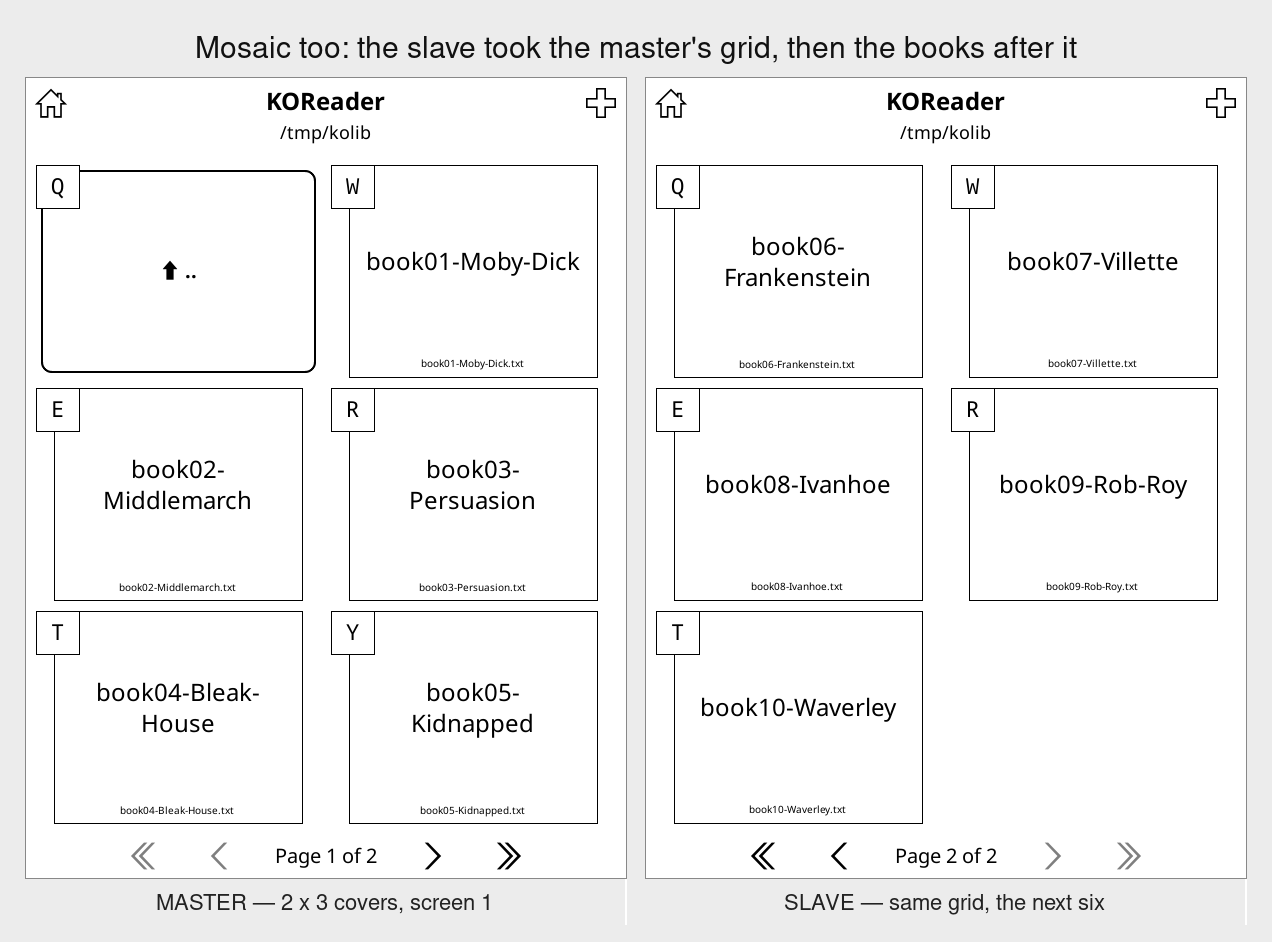
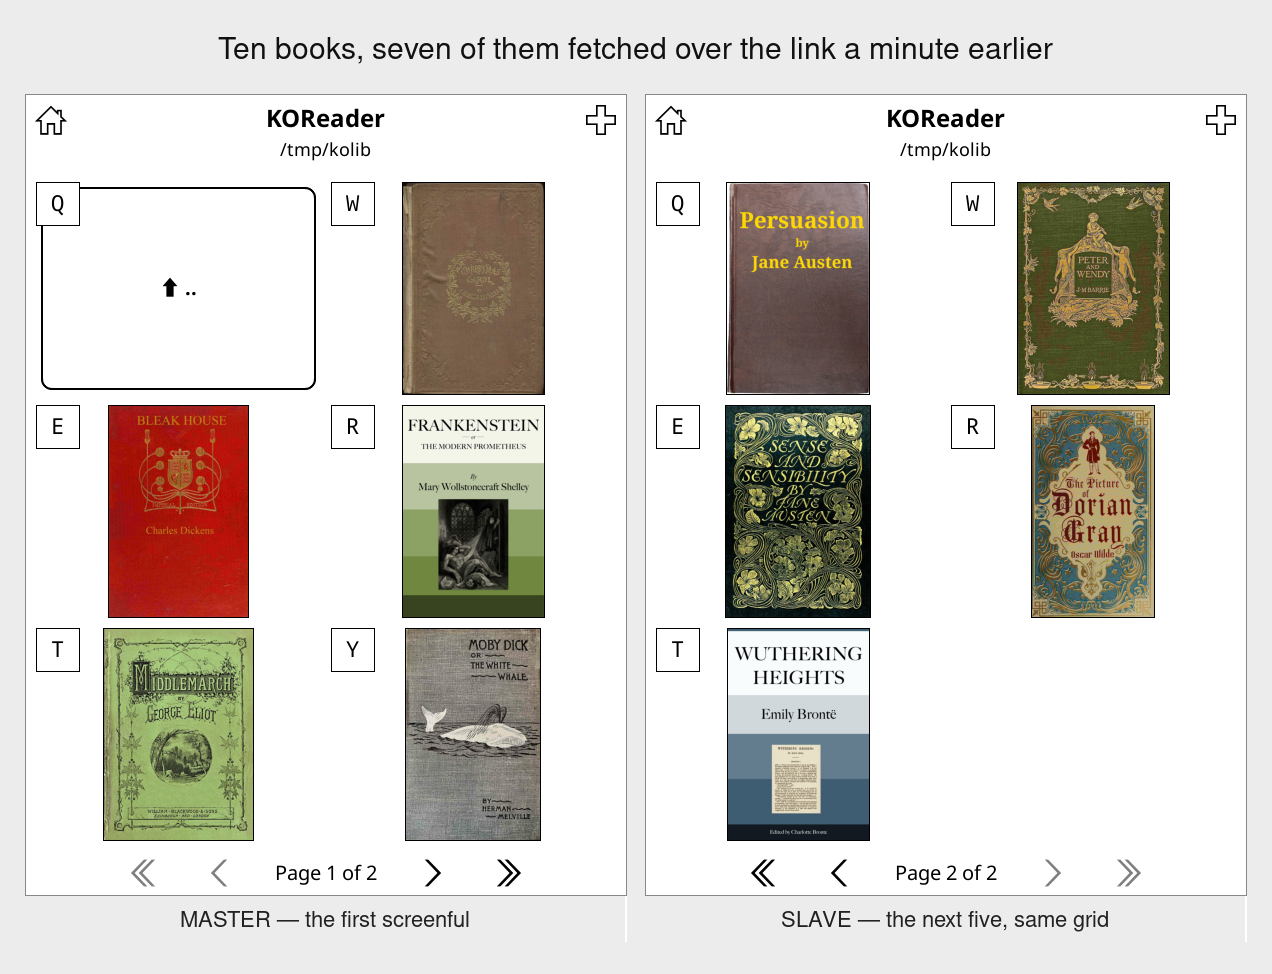
Fix book transfers, which were broken for every real book
Putting real books in the demo library — ten Project Gutenberg EPUBs, for
the covers — turned up a transfer that had never worked on anything but
test fixtures.

A book travels base64-encoded inside the protocol's one-line messages. The
protocol carries a restricted character set and percent-escapes the rest,
and `+` and `/` are not in it, so those two characters triple in length on
the wire. Text hardly contains them. An EPUB is a zip: its bytes look
random, about one base64 character in thirty comes out as `+` or `/`, and
that was enough to push a chunk past the 4096-byte line limit. The encode
then failed, and the sender abandoned the book without a word — leaving the
other device holding a part-file, waiting for a chunk that was never
coming, with its whole remaining queue stuck behind it.

Three fixes, since one silent stall deserves more than one guard:

  - Books now use the URL-safe base64 alphabet from the same standard, so
    nothing in a chunk ever needs escaping. A chunk is now a predictable
    3852 bytes whatever the book holds, instead of somewhere near the
    limit and over it often enough to matter.
  - A send that fails tells the other device instead of going quiet.
  - A request that goes thirty seconds without a byte is written off, and
    a library sync carries on with the next book. Stopping Duo drops
    anything half-transferred, which also stops an interrupted fetch from
    blocking every book after it.
[…]

diff --git a/README.md b/README.md
@@ -186,7 +186,11 @@ in charge, in its own terms.
 travels with the page, so a device showing 2 × 3 covers puts the other one
 on the same grid and takes the next six books.
 
-![Two cover grids, the master showing the first six books and the slave the next](screenshots/mosaic-spread.png)
+![Two cover grids of real books, the master showing the first screenful and the slave the next](screenshots/mosaic-spread.png)
+
+Ten Project Gutenberg EPUBs at `/tmp/kolib`, seven of which the right-hand
+device did not have a minute earlier — it fetched them over the link, covers
+and all, and every file matched the sender's checksum.
 
 A grid can only be matched
 against another grid, though. Told only that the other device fits eight,
@@ -221,11 +225,24 @@ no cloud account involved. The status line shows the progress while it runs.
   and only moved into place once all of it has arrived and the size matches.
 - **There is a size limit** — 64 MB by default — so a mistyped tap cannot
   push a 2 GB scan down a slow link.
+- **A transfer that dies says so.** If a chunk cannot go out, the sender
+  tells the other device rather than stopping mid-book; and a book that goes
+  thirty seconds without a byte is written off at the receiving end, so one
+  bad transfer cannot wedge every book after it.
 
-Over Wi-Fi a normal EPUB arrives in a second or two. Over a serial link it
-will take as long as the line takes; the transfer is chunked and paced by
-how fast the other end drains it, so a slow link makes it slow rather than
-making it fail.
+Over Wi-Fi an EPUB of a few hundred kilobytes takes a handful of seconds —
+about 100 KB/s, since the bytes travel as text on the same line-based link
+the page numbers use. Over a serial line it will take as long as the line
+takes; the transfer is chunked and paced by how fast the other end drains
+it, so a slow link makes it slow rather than making it fail.
+
+A book travels base64-encoded, in the URL-safe alphabet rather than the
+usual one. That detail matters more than it looks: the protocol's lines
+carry a restricted character set and escape everything else, and `+` and `/`
+are not in it. A compressed file — which every EPUB is — produces enough of
+them to push a chunk past the line limit, and the transfer would fail part
+way through a real book while sailing through any test written with tidy
+data. Two characters' difference and nothing needs escaping at all.
 
 ## Matching typography
 
@@ -320,19 +337,19 @@ make test          # everything, on LuaJIT
 make test LUA=lua5.1
 ```
 
-178 tests, no mocking of the interesting parts:
+182 tests, no mocking of the interesting parts:
 
 | Suite | Tests | What it covers |
 | --- | --- | --- |
 | `protocol_spec` | 23 | Framing, escaping, byte-at-a-time reassembly, SHA-256 vectors, reading our own address out of `ip`/`ifconfig` |
 | `link_spec` | 13 | Real loopback sockets: connect, refuse, partial writes, handshake, heartbeats, and a check that the pairing code never appears on the wire |
 | `plugin_spec` | 23 | The real `main.lua` under a stub KOReader: menus, page-turn interception, the reader binding |
-| `integration_spec` | 45 | **Two and three device processes over real TCP**: spreads, turns from either device, absolute jumps, mirror, reverse, end of book, reconnects, document following, typography converging from both directions, a book sent between devices, and one book list spread across two screens |
+| `integration_spec` | 46 | **Two and three device processes over real TCP**: spreads, turns from either device, absolute jumps, mirror, reverse, end of book, reconnects, document following, typography converging from both directions, a book sent between devices, and one book list spread across two screens |
 | `serial_spec` | 7 | The same two processes over a pseudo-terminal pair, standing in for a bound RFCOMM channel |
 | `typography_spec` | 12 | Reading, encoding and applying layout settings, including margin pairs and a missing typeface |
 | `library_spec` | 9 | **The whole library brought into step**: the slave in its own mount namespace with a different folder at the same path, so the books really have to travel, and no complaint about a mismatch it is busy repairing |
 | `browser_spec` | 15 | Reading and paging the book list, the listing hash, matching a screenful through all three widgets that draw it — plain browser, cover-browser list, cover-browser grid — and refusing a folder the device does not have |
-| `booktransfer_spec` | 13 | Base64 against the published vectors, every byte value round-tripped, short and oversized transfers refused, and a peer that tries to name its own destination |
+| `booktransfer_spec` | 16 | Both base64 alphabets against the published vectors, every byte value round-tripped, a full chunk of the worst bytes that exist kept inside the line limit, short and oversized transfers refused, and a peer that tries to name its own destination |
 | `directlink_spec` | 13 | Driver capability probing against real `iw` output shapes, and the exact commands each method issues |
 | `directlink_net_spec` | 5 | **Two network namespaces on a link-local /16**: the router-free network, with search, connection and spread across it |
 
@@ -374,11 +391,15 @@ Both of the features above were checked there too, not only in the suite:
   sat on page 9.
 - **The whole library.** Same trick, one folder up: `/tmp/kolib` on the
   slave was a tmpfs in its own mount namespace holding three books, against
-  the master's ten at that same path. On connecting, the slave fetched the
-  seven it lacked in about two seconds, then moved itself to the second
-  screenful without being told — the master showing books 1–9 and the slave
-  book 10. It said nothing about the mismatch on the way, which is the
-  point: the warning is for a difference nothing is going to fix.
+  the master's ten at that same path — ten real Project Gutenberg EPUBs, not
+  test fixtures. On connecting, the slave fetched the seven it lacked, 4.2 MB
+  in forty seconds, every file matching the sender's MD5, and moved itself to
+  the second screenful without being told. It said nothing about the mismatch
+  on the way, which is the point: the warning is for a difference nothing is
+  going to fix.
+
+  Real books are also what turned up the transfer bug described below. A
+  library of fixtures would not have.
 - **Matching the screenful.** Checked against all three of the widgets that
   draw the list. With the plain browser the slave went from 6 items a screen
   to the master's 10; with the cover browser in list mode, where the global
